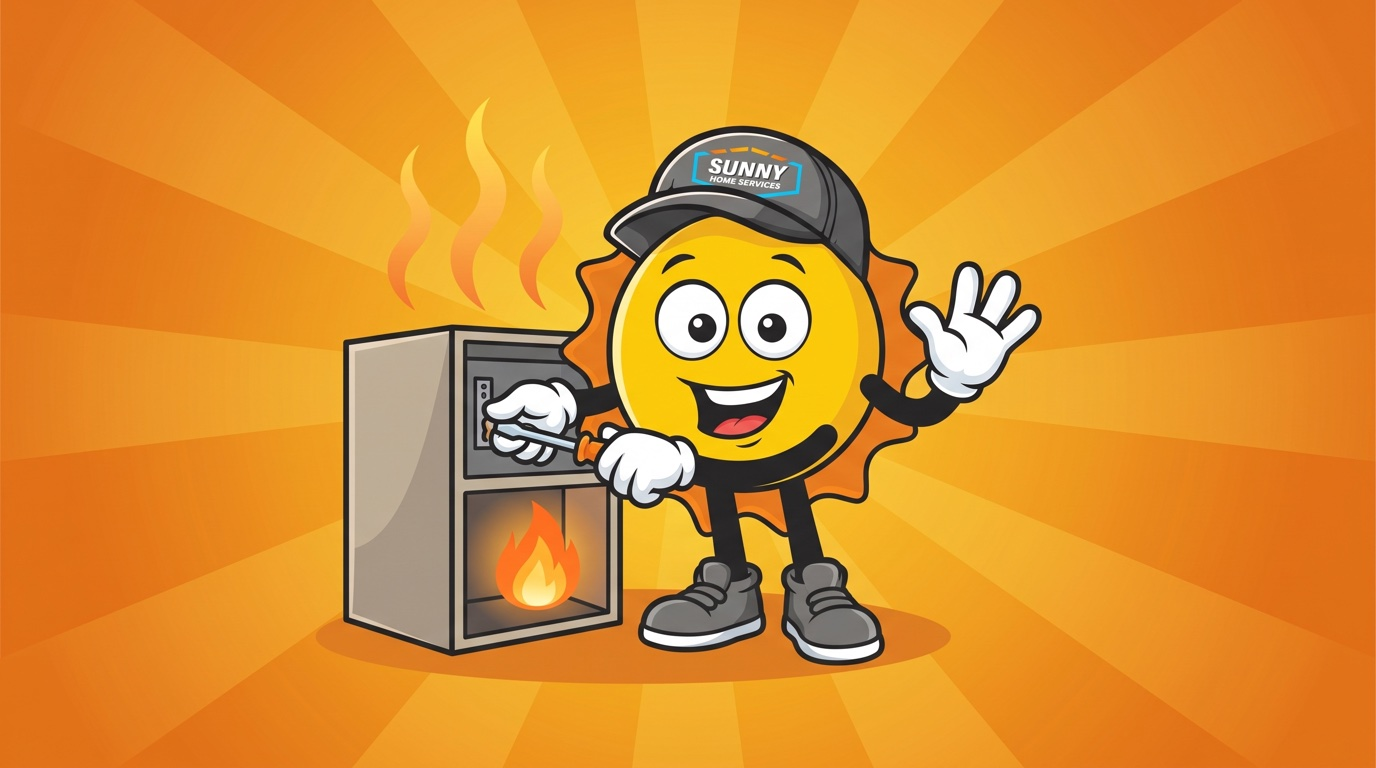
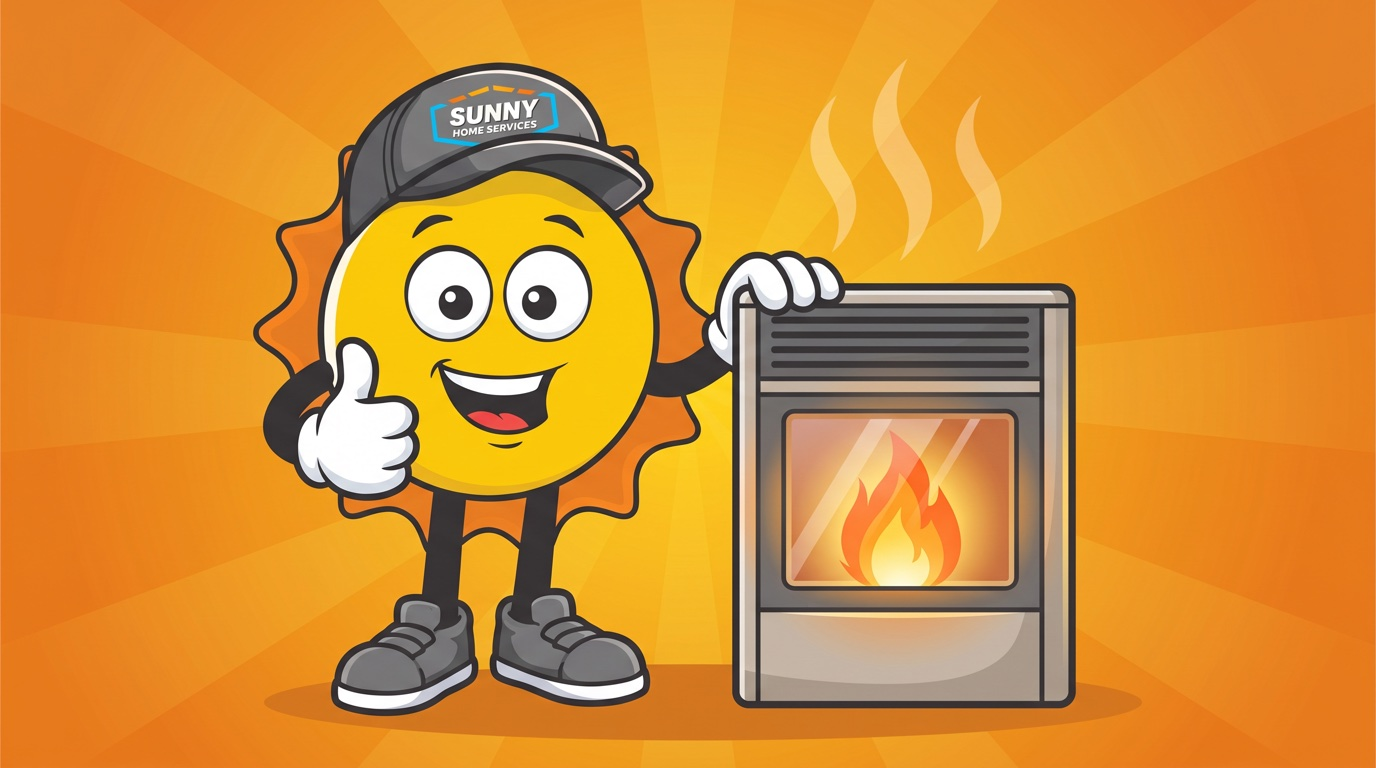
Hero polish + service tile fixes + services background (#7)
- Hero: restructure headline into two balanced lines (no orphan words),
  gold accent on "on the Wasatch Front", sized + van repositioned so copy
  fully clears the van and brand shield
- Services: regenerate AC image (was cropped/didn't fit) and Heating image
  (had extra arms) with correct framing and anatomy
- Services: add faint neighborhood background so the section isn't blank,
  matching the other sections' style

diff --git a/index.html b/index.html
@@ -113,15 +113,18 @@
     <div class="container hero-content">
       <!-- H1 + subhead verbatim from the copywriter brief (targets "hvac companies near me") -->
       <h1 class="display-hero hero-title-interactive" id="hero-title">
-        <span class="word">HVAC</span>
-        <span class="word">&amp;</span>
-        <span class="word">Plumbing</span>
-        <span class="word">Company</span>
-        <br>
-        <span class="word alt-font">on</span>
-        <span class="word alt-font">the</span>
-        <span class="word alt-font">Wasatch</span>
-        <span class="word alt-font">Front</span>
+        <span class="hero-line hero-line-1">
+          <span class="word">HVAC</span>
+          <span class="word">&amp;</span>
+          <span class="word">Plumbing</span>
+          <span class="word">Company</span>
+        </span>
+        <span class="hero-line hero-line-2">
+          <span class="word alt-font">on</span>
+          <span class="word alt-font">the</span>
+          <span class="word alt-font">Wasatch</span>
+          <span class="word alt-font">Front</span>
+        </span>
       </h1>
       <p class="lead lead-on-video">Same-day emergency response. Certified technicians. Upfront pricing. Serving Wasatch Front Homes.</p>
       <div class="cta-row">
@@ -184,6 +187,7 @@
 
   <!-- 03 Services - the brief's 6 service lines, each linking to its hub page -->
   <section class="section section-services reveal" data-animation="fade-up" id="services" data-block="service-tiles">
+    <div class="section-bg section-bg-faint"><img src="assets/bg/neighborhood.jpg" alt="" data-parallax="12"></div>
     <div class="bg-orb bg-orb-sky" style="top:-200px; left:-200px; width:540px;"></div>
     <div class="bg-orb bg-orb-orange" style="bottom:-220px; right:-100px; width:420px;"></div>
 

diff --git a/css/sunny-home.css b/css/sunny-home.css
@@ -21,12 +21,20 @@
     :root {
       --font-body: 'Rubik Test Medium', system-ui, sans-serif;
     }
-    /* Hero: text kept to a left column so it clears the van; wraps instead of one long line */
-    .section-hero .display-hero { font-family: var(--font-display); font-size: clamp(36px, 4.6vw, 62px); white-space: normal; max-width: 560px; }
-    .section-hero .alt-font { font-family: 'Archivo Black', var(--font-display); font-weight: 400; font-size: 0.84em; }
+    /* Hero: two intentional lines (no orphan words); sized to sit left of the van */
+    .section-hero .display-hero { font-family: var(--font-display); font-size: clamp(30px, 3vw, 44px); line-height: 1.06; letter-spacing: -0.01em; }
+    .section-hero .hero-content { padding-left: 4vw; }
+    .section-hero .hero-line { display: block; white-space: nowrap; }
+    .section-hero .hero-line-2 { margin-top: 4px; }
+    .section-hero .hero-line-2 .word { color: var(--yellow); }
+    .section-hero .alt-font { font-family: 'Archivo Black', var(--font-display); font-weight: 400; font-size: 0.94em; }
     .section-hero .hero-content .lead-on-video,
-    .section-hero .hero-content .cta-row { max-width: 560px; }
-    .section-hero .hero-video { object-position: 70% center; }
+    .section-hero .hero-content .cta-row { max-width: 520px; }
+    .section-hero .hero-video { object-position: 78% center; }
+    @media (max-width: 720px) {
+      .section-hero .hero-line { white-space: normal; }
+      .section-hero .display-hero { font-size: clamp(30px, 8vw, 44px); }
+    }
 
     /* ---------- Header brand lockup (larger logo, mascot tucked) ---------- */
     .header-logo { gap: 5px; }
